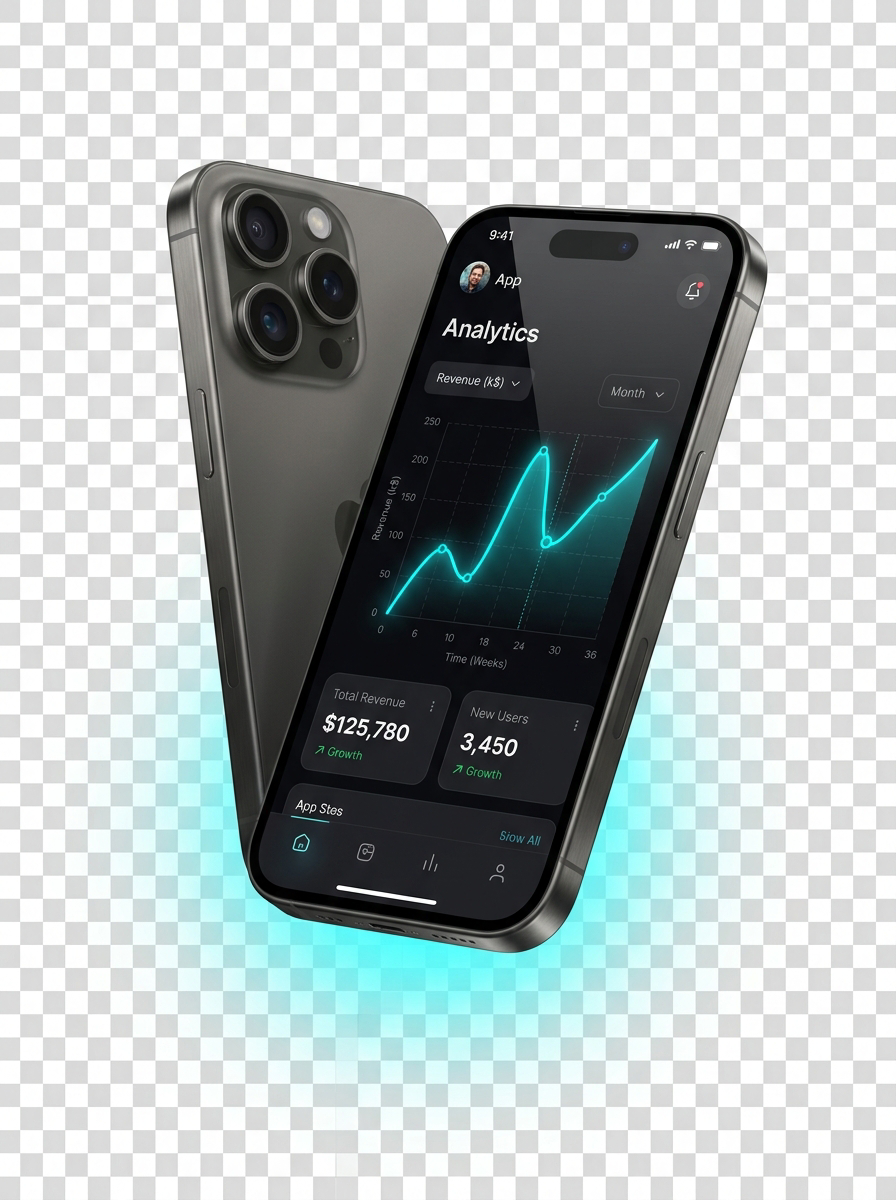
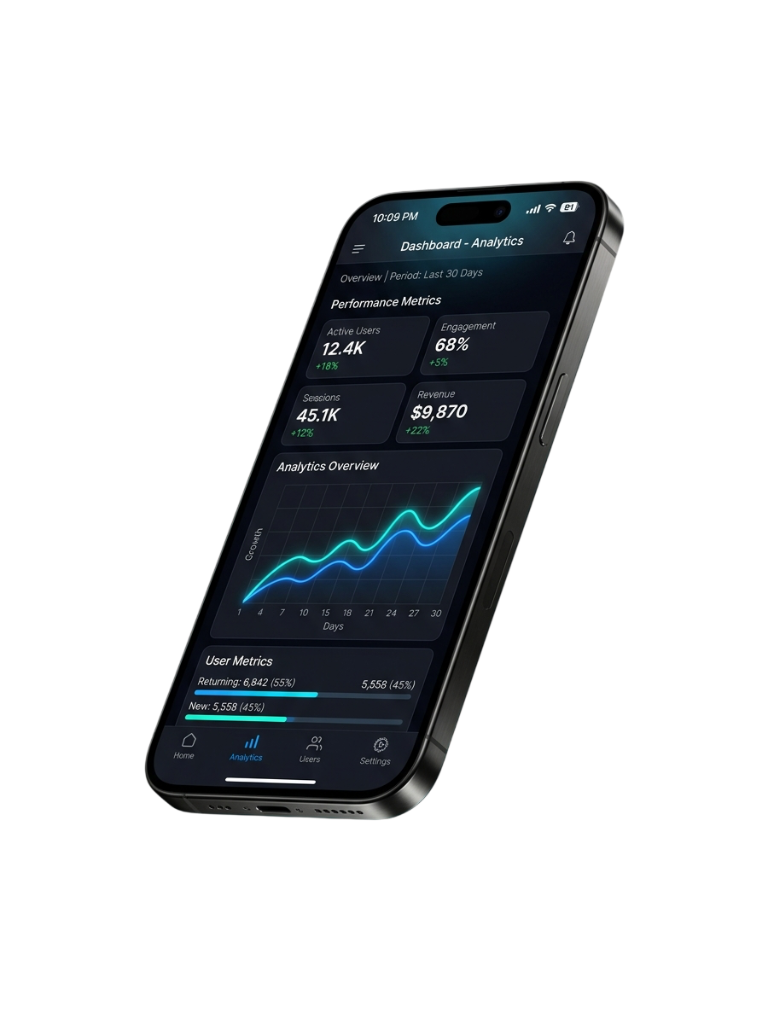
feat: correcciones tipográficas, de imágenes e íconos

diff --git a/app/components/ui/IconBadge.vue b/app/components/ui/IconBadge.vue
@@ -8,20 +8,32 @@
 </template>
 
 <script setup lang="ts">
-// Mapa de iconos disponibles → componentes importados dinámicamente
-const iconMap: Record<string, string> = {
-  smartphone: 'IconSmartphone',
-  dashboard: 'IconDashboard',
-  'layout-dashboard': 'IconDashboard',
-  globe: 'IconGlobe',
-  key: 'IconKey',
-  rocket: 'IconRocket',
-  users: 'IconUsers',
-  zap: 'IconZap',
-  shield: 'IconShield',
-  check: 'IconCheck',
-  mail: 'IconMail',
-  whatsapp: 'IconWhatsapp',
+import IconSmartphone from './icons/IconSmartphone.vue'
+import IconDashboard from './icons/IconDashboard.vue'
+import IconGlobe from './icons/IconGlobe.vue'
+import IconKey from './icons/IconKey.vue'
+import IconRocket from './icons/IconRocket.vue'
+import IconUsers from './icons/IconUsers.vue'
+import IconZap from './icons/IconZap.vue'
+import IconShield from './icons/IconShield.vue'
+import IconCheck from './icons/IconCheck.vue'
+import IconMail from './icons/IconMail.vue'
+import IconWhatsapp from './icons/IconWhatsapp.vue'
+
+// Mapa de componentes directamente referenciados
+const iconMap: Record<string, any> = {
+  smartphone: IconSmartphone,
+  dashboard: IconDashboard,
+  'layout-dashboard': IconDashboard,
+  globe: IconGlobe,
+  key: IconKey,
+  rocket: IconRocket,
+  users: IconUsers,
+  zap: IconZap,
+  shield: IconShield,
+  check: IconCheck,
+  mail: IconMail,
+  whatsapp: IconWhatsapp,
 }
 
 const props = withDefaults(defineProps<{
@@ -38,9 +50,7 @@ const resolvedSize = computed(() => props.size ?? props.iconSize)
 
 // Resolver el componente de icono según el prop
 const iconComponent = computed(() => {
-  const name = iconMap[props.icon]
-  if (!name) return null
-  return resolveComponent('UiIcons' + name)
+  return iconMap[props.icon] || null
 })
 </script>
 

diff --git a/app/data/projects.ts b/app/data/projects.ts
@@ -18,6 +18,7 @@ export interface Project {
   }
   tags: string[]
   featured?: boolean
+  description: string
 }
 
 export const projects: Project[] = [
@@ -27,6 +28,7 @@ export const projects: Project[] = [
     name: 'Just Blocks',
     type: 'producto',
     category: 'Juego',
+    description: 'Juego de rompecabezas minimalista con integración de Google Play.',
     tech: ['Flutter'],
     status: 'published',
     image: null, // Pendiente: subir captura a /images/projects/just-blocks.webp
@@ -41,6 +43,7 @@ export const projects: Project[] = [
     name: 'Viewly',
     type: 'producto',
     category: 'Streaming Social',
+    description: 'Plataforma para ver contenido en sincronía con amigos en salas virtuales.',
     tech: ['Flutter'],
     status: 'in-progress',
     image: null,
@@ -55,6 +58,7 @@ export const projects: Project[] = [
     name: 'Dokko',
     type: 'producto',
     category: 'Sistema de Gestión',
+    description: 'Software de gestión y administración enfocado a negocios y franquicias.',
     tech: ['Flutter'],
     status: 'in-progress',
     image: null,
@@ -69,6 +73,7 @@ export const projects: Project[] = [
     name: 'UXcode Solutions',
     type: 'producto',
     category: 'Marca',
+    description: 'Nuestra propia identidad, sitio web y ecosistema de aplicaciones.',
     tech: ['Nuxt', 'Vue.js'],
     status: null,
     image: null,
@@ -82,6 +87,7 @@ export const projects: Project[] = [
     name: 'Nexo Inmuebles',
     type: 'cliente',
     category: 'Sitio Web',
+    description: 'Agencia de bienes raíces con catálogo de propiedades y captación de leads.',
     tech: ['Vue.js'],
     status: null,
     image: null,

diff --git a/app/components/sections/PostCard.vue b/app/components/sections/PostCard.vue
@@ -25,7 +25,7 @@
       <div class="post-card__content">
         <div class="post-card__meta">
           <span class="pill">{{ post.category }}</span>
-          <span class="post-card__meta-text">{{ formatDate(post.date) }} · {{ post.readingTime }}</span>
+          <span class="post-card__meta-text">{{ post.date ? formatDate(post.date) : '' }} · {{ post.readingTime }}</span>
         </div>
         <h3 class="post-card__title">{{ post.title }}</h3>
         <p class="post-card__desc">{{ post.description }}</p>
@@ -39,15 +39,16 @@
 </template>
 
 <script setup lang="ts">
-// Tipo extraído del esquema de Content
+// Interface interna del componente – los campos del frontmatter son opcionales
+// para ser compatibles con ParsedContent de Nuxt Content v2
 interface Post {
   _path?: string
-  title: string
-  description: string
+  title?: string
+  description?: string
   image?: string | null
-  date: string
-  category: string
-  readingTime: string
+  date?: string
+  category?: string
+  readingTime?: string
 }
 
 defineProps<{ post: Post }>()

diff --git a/app/components/sections/HeroSection.vue b/app/components/sections/HeroSection.vue
@@ -67,13 +67,14 @@
 
         <!-- Teléfono mockup principal centrado en el anillo -->
         <div class="hero__phone-wrap float">
-          <img
+          <NuxtImg
             src="/images/hero-phone.png"
             alt="App dashboard en móvil"
             class="hero__phone-img"
             width="340"
             height="520"
             loading="eager"
+            format="webp"
           />
         </div>
 
@@ -253,8 +254,8 @@
 /* ── Teléfono ── */
 .hero__phone-wrap {
   position: absolute;
-  top: 50%;
-  left: 50%;
+  top: 20%;
+  left: 40%;
   transform: translate(-50%, -50%);
   z-index: 2;
 }
@@ -263,8 +264,9 @@
   height: 440px;
   width: auto;
   object-fit: contain;
-  /* Los JPG del render con fondo oscuro usan lighten para fundir con el fondo */
   filter: drop-shadow(0 0 40px rgba(0, 255, 255, 0.25));
+  /* Usamos scale en vez de afectar las dimensiones reales para no romper el layout */
+  transform: scale(1.65) translateY(-5%);
 }
 
 /* ── Tarjetas de estadísticas flotantes ── */

diff --git a/app/pages/nosotros.vue b/app/pages/nosotros.vue
@@ -146,7 +146,7 @@ const num2 = ref<HTMLElement | null>(null)
 const num3 = ref<HTMLElement | null>(null)
 
 // Valores objetivo (hardcodeados como dice el prompt para que sean reales)
-const targets = [3, 15, 2]
+const targets: [number, number, number] = [3, 15, 2]
 
 const animateValue = (obj: HTMLElement | null, start: number, end: number, duration: number) => {
   if (!obj) return
@@ -169,7 +169,7 @@ const animateValue = (obj: HTMLElement | null, start: number, end: number, durat
 onMounted(() => {
   // Usar IntersectionObserver para animar cuando entren al viewport
   const observer = new IntersectionObserver((entries) => {
-    if (entries[0].isIntersecting) {
+    if (entries[0]!.isIntersecting) {
       animateValue(num1.value, 0, targets[0], 2000)
       animateValue(num2.value, 0, targets[1], 2000)
       animateValue(num3.value, 0, targets[2], 2000)

diff --git a/app/pages/index.vue b/app/pages/index.vue
@@ -101,7 +101,7 @@
             class="blog-preview__card-wrap"
             v-reveal="{ delay: index * 100 }"
           >
-            <SectionsPostCard :post="post" />
+            <SectionsPostCard :post="(post as any)" />
           </div>
         </div>
 
@@ -140,10 +140,10 @@ const featuredProjects = projects.filter(p => p.featured).slice(0, 3)
 
 // Obtener los 3 artículos más recientes del blog
 const { data: recentPosts } = await useAsyncData('recent-posts', () => {
-  return queryCollection('blog')
-    .order('date', 'DESC')
+  return queryContent('blog')
+    .sort({ date: -1 })
     .limit(3)
-    .all()
+    .find()
 })
 </script>
 

diff --git a/app/pages/blog/index.vue b/app/pages/blog/index.vue
@@ -32,7 +32,7 @@
             class="blog-grid__item"
             v-reveal="{ delay: (index % 3) * 100 }"
           >
-            <SectionsPostCard :post="post" />
+          <SectionsPostCard :post="(post as any)" />
           </div>
         </div>
 
@@ -73,9 +73,9 @@ useSeoMeta({
 
 // Cargar posts de @nuxt/content
 const { data: posts } = await useAsyncData('blog-posts', () => {
-  return queryCollection('blog')
-    .order('date', 'DESC')
-    .all()
+  return queryContent('blog')
+    .sort({ date: -1 })
+    .find()
 })
 </script>
 

diff --git a/app/pages/blog/[slug].vue b/app/pages/blog/[slug].vue
@@ -57,9 +57,7 @@ const route = useRoute()
 const slug = route.params.slug as string
 
 const { data: post } = await useAsyncData(`blog-${slug}`, () => {
-  return queryCollection('blog')
-    .path(`/blog/${slug}`)
-    .first()
+  return queryContent('blog', slug).findOne()
 })
 
 if (!post.value) {
